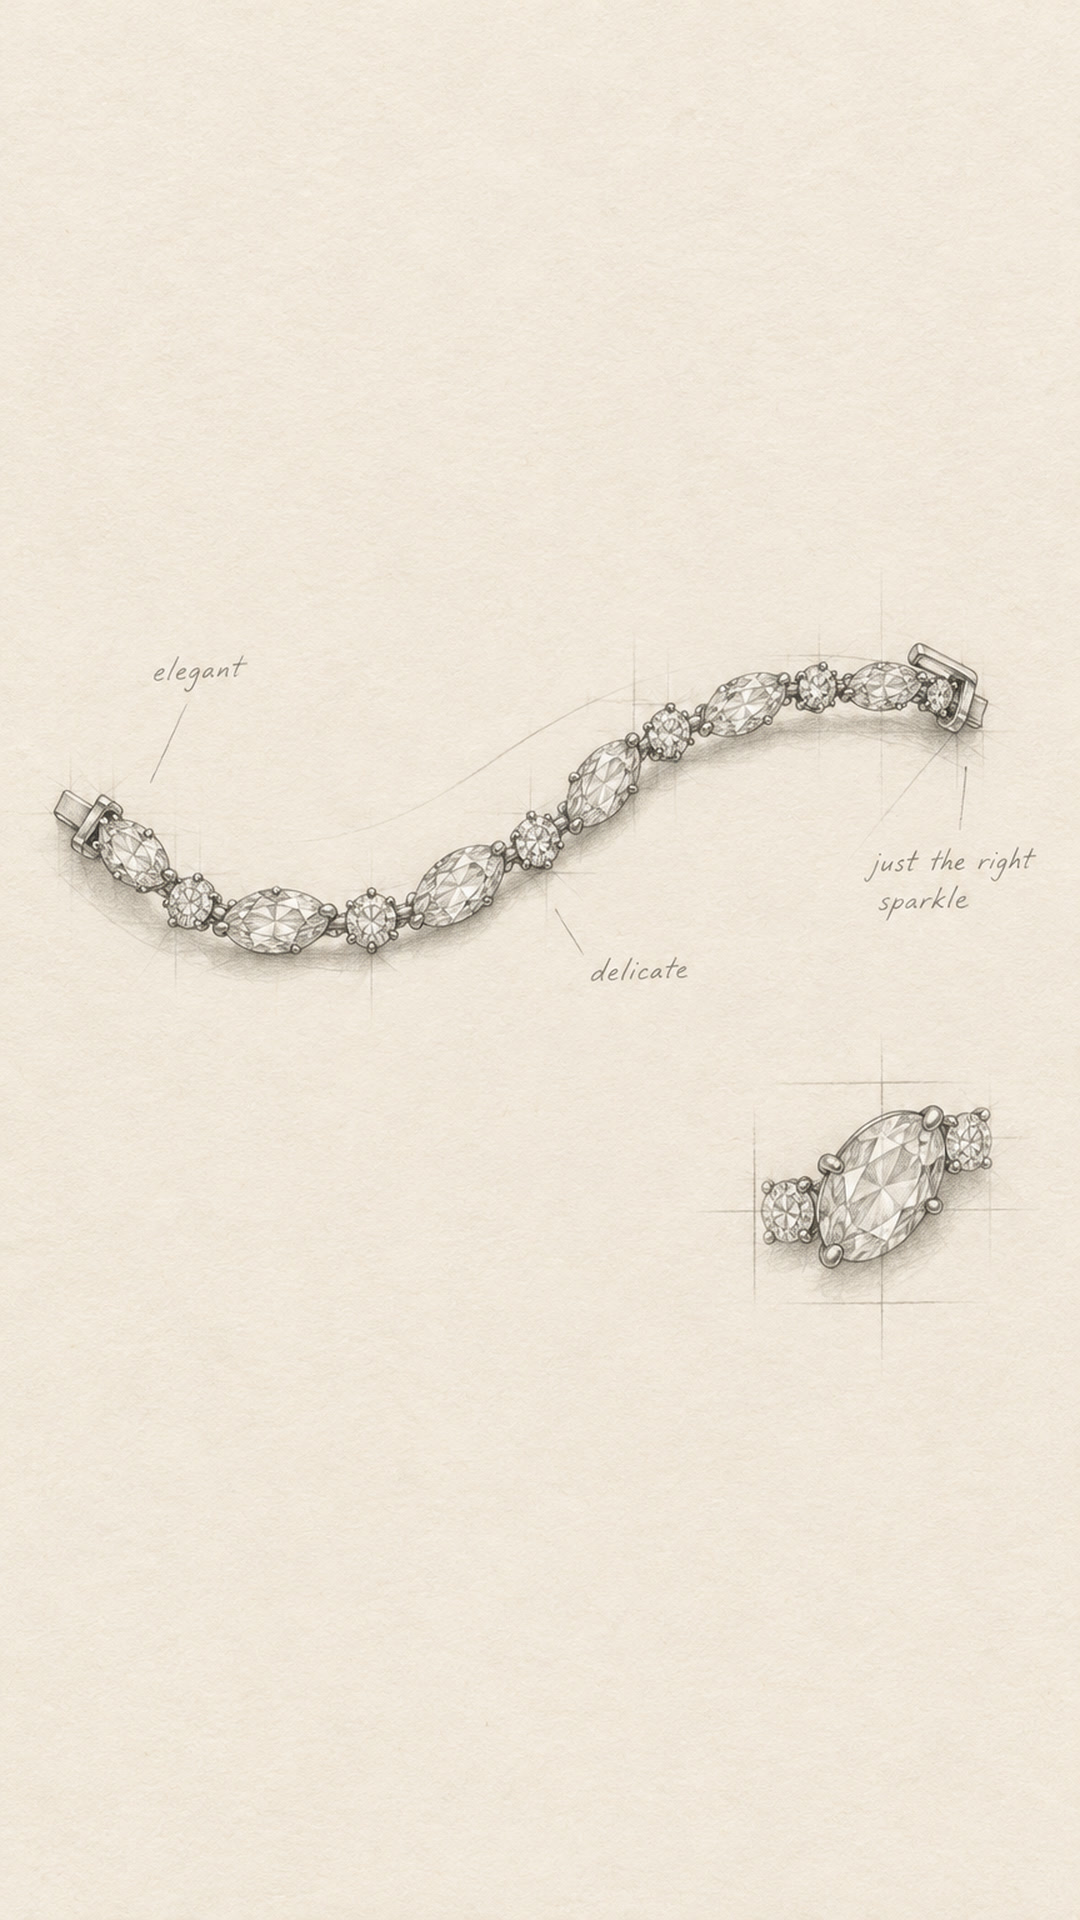
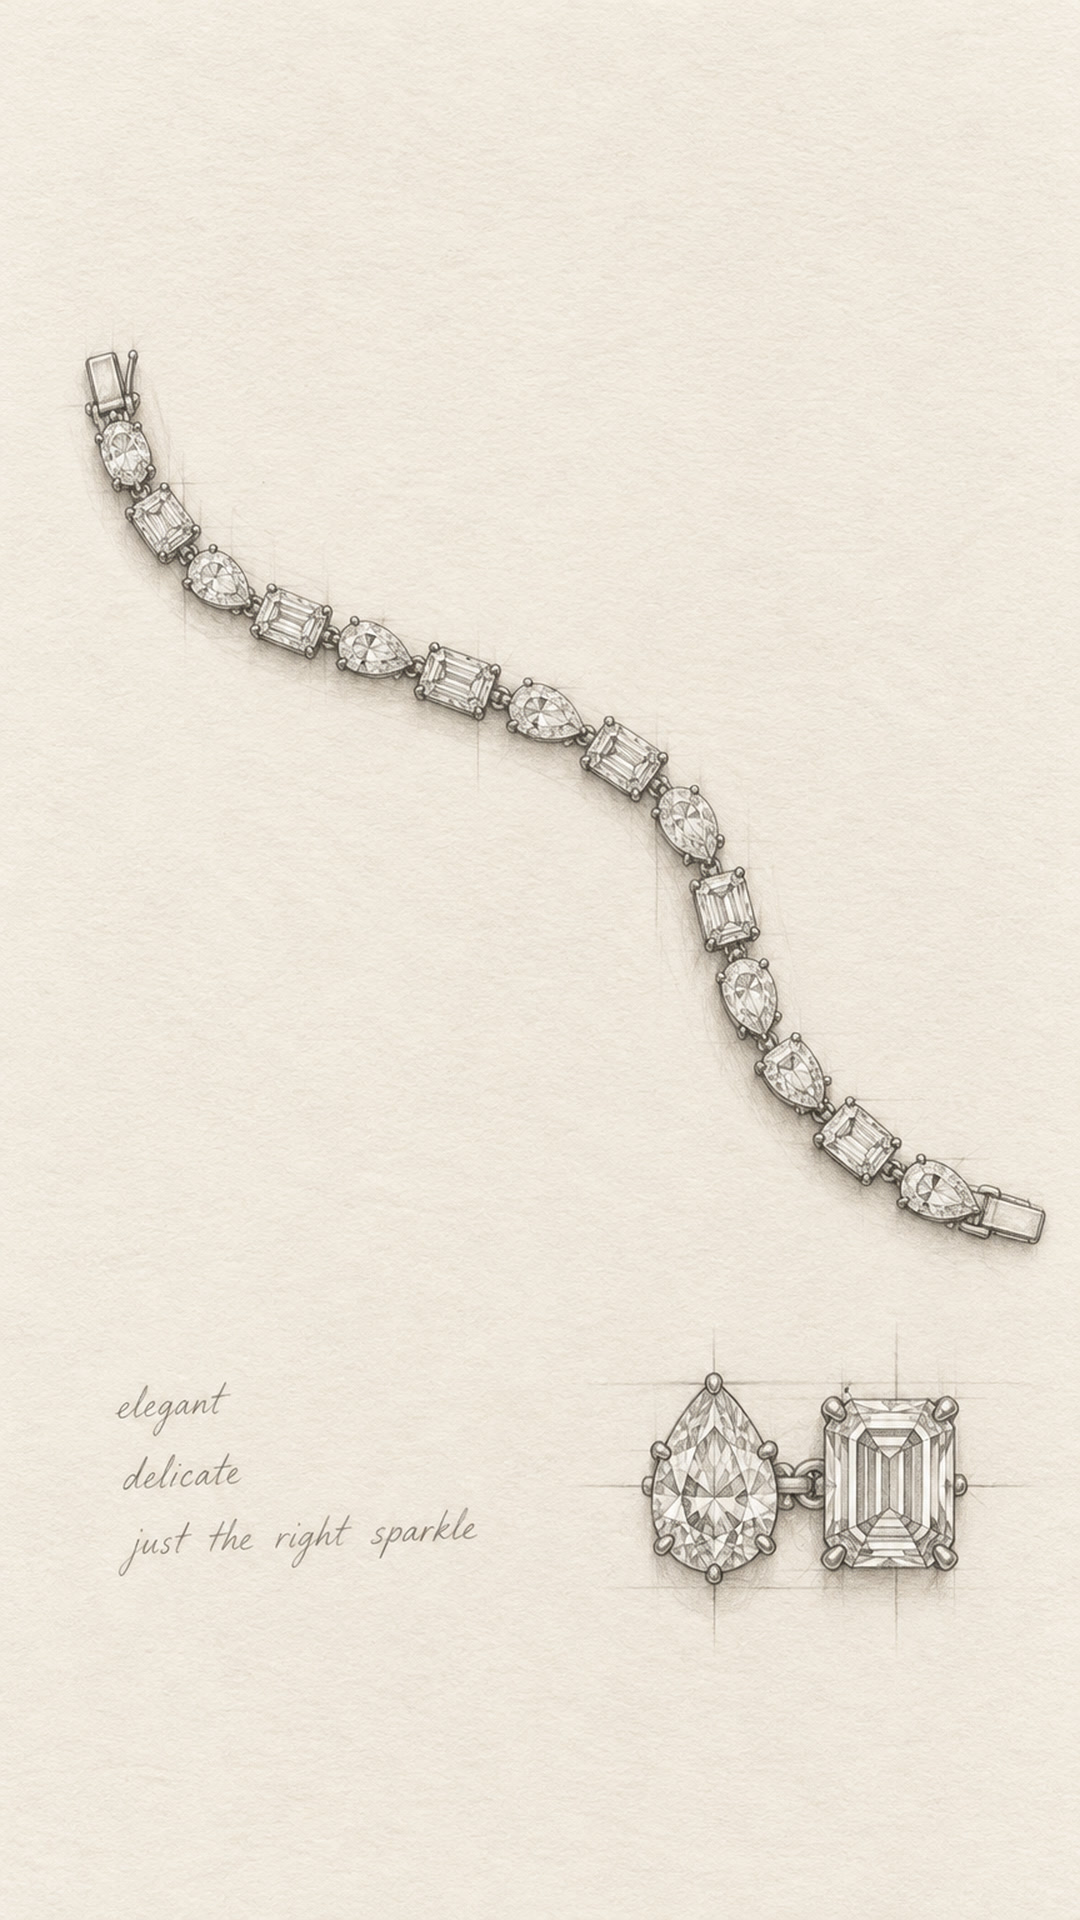
Day 14 bracelet: real bracelet footage, sketch redrawn to match, readable captions on b-roll
Claude-Session: https://claude.ai/code/session_01KXUHsgadvkQefrLQBJPzxr

diff --git a/video/interviews/src/Day14.tsx b/video/interviews/src/Day14.tsx
@@ -1,7 +1,7 @@
 // "Day 14 the Bracelet": idea to sparkle. Her take (media/p9/day14.mp4, upscaled from 720p) with the long pauses
 // tightened. Her three wishes ("elegant", "delicate", "just the right sparkle") pop up as soft word chips above her
-// head; on "we brought her idea to life" a pencil sketch of the bracelet draws itself full screen, then dissolves
-// into the finished bracelet on "beautiful diamond bracelet"; "the finished piece" cuts to it on the wrist.
+// head; on "we brought her idea to life" a pencil sketch of the bracelet draws itself, then the real bracelet footage
+// (gloved over its certificate, then in hand) carries the making and "the finished piece".
 import React from 'react';
 import {AbsoluteFill, Easing, Img, interpolate, OffthreadVideo, Sequence, spring, staticFile, useCurrentFrame, useVideoConfig} from 'remotion';
 import {Audio} from '@remotion/media';
@@ -9,7 +9,6 @@ import wordsData from './data/day14_words.json';
 import {AFACAD, INSTRUMENT, POPPINS} from './fonts';
 
 const clamp = {extrapolateLeft: 'clamp', extrapolateRight: 'clamp'} as const;
-const ease = Easing.bezier(0.16, 1, 0.3, 1);
 const TERRA = '#E2725B', SAP = '#507D2A', INK = '#2E2A26';
 type Word = {w: string; t: number; e: number};
 const WORDS = wordsData as Word[];
@@ -71,45 +70,51 @@ const Chips: React.FC = () => {
 	);
 };
 
-// the pencil sketch draws itself (soft-edged wipe), holds with a slow push, then dissolves into the photo
-const SketchToPhoto: React.FC<{dur: number; photoAt: number}> = ({dur, photoAt}) => {
+// the pencil sketch draws itself (soft-edged wipe) with a slow push
+const Sketch: React.FC<{dur: number}> = ({dur}) => {
 	const frame = useCurrentFrame();
 	const {fps} = useVideoConfig();
 	const t = frame / fps;
-	const draw = interpolate(t, [0.25, 2.8], [0, 1], {...clamp, easing: Easing.inOut(Easing.quad)});
-	const edge = -10 + draw * 120;   // percent across
-	const photo = interpolate(t, [photoAt - 0.25, photoAt + 0.45], [0, 1], {...clamp, easing: ease});
-	const zs = interpolate(t, [0, photoAt + 0.5], [1.0, 1.08], clamp);
-	const zp = interpolate(t, [photoAt, dur], [1.04, 1.12], clamp);
-	const inA = interpolate(t, [0, 0.25], [0, 1], clamp);
+	const draw = interpolate(t, [0.2, 2.3], [0, 1], {...clamp, easing: Easing.inOut(Easing.quad)});
+	const edge = -10 + draw * 120;
+	const z = interpolate(t, [0, dur], [1.0, 1.06], clamp);
+	const inA = interpolate(t, [0, 0.2], [0, 1], clamp);
+	const outA = interpolate(t, [dur - 0.3, dur], [1, 0], clamp);
 	return (
 		<AbsoluteFill style={{background: '#F3EDE2', opacity: inA}}>
-			<AbsoluteFill style={{scale: zs, transformOrigin: '540px 760px'}}>
+			<AbsoluteFill style={{scale: z, transformOrigin: '540px 760px', opacity: outA}}>
 				<Img src={staticFile('img/bracelet/B_sketch.jpg')} style={{width: 1080, height: 1920,
 					maskImage: `linear-gradient(100deg, black ${edge - 8}%, transparent ${edge + 4}%)`, WebkitMaskImage: `linear-gradient(100deg, black ${edge - 8}%, transparent ${edge + 4}%)`}} />
 			</AbsoluteFill>
-			<AbsoluteFill style={{opacity: photo, scale: zp, transformOrigin: '540px 720px'}}>
-				<Img src={staticFile('img/bracelet/B_photo.jpg')} style={{width: 1080, height: 1920}} />
-			</AbsoluteFill>
-			<div style={{position: 'absolute', left: 0, right: 0, top: 150, textAlign: 'center', fontFamily: AFACAD, fontWeight: 500, fontSize: 30, letterSpacing: '0.34em',
-				color: photo > 0.5 ? '#6F6A64' : '#8B7F70', opacity: inA}}>{photo > 0.5 ? 'THE FINISHED PIECE' : 'HER IDEA, ON PAPER'}</div>
+			<div style={{position: 'absolute', left: 0, right: 0, top: 150, textAlign: 'center', fontFamily: AFACAD, fontWeight: 500, fontSize: 30, letterSpacing: '0.34em', color: '#8B7F70'}}>HER IDEA, ON PAPER</div>
 		</AbsoluteFill>
 	);
 };
 
-const Wrist: React.FC<{dur: number}> = ({dur}) => {
+// the real bracelet footage (upscaled from the phone clips), slowed a touch, with a short label
+type Roll = {at: number; clip: string; from: number; dur: number; label?: string};
+const ROLL: Roll[] = [
+	{at: 21.0, clip: 'g3', from: 15.0, dur: 3.4, label: 'EVERY LITTLE DETAIL'},
+	{at: 24.4, clip: 'g2', from: 1.0, dur: 2.0},
+	{at: 26.4, clip: 'g3', from: 21.0, dur: 2.2},
+	{at: 32.65, clip: 'h1', from: 8.0, dur: 2.4, label: 'THE FINISHED PIECE'},
+	{at: 35.05, clip: 'h3', from: 4.0, dur: 1.9},
+	{at: 36.95, clip: 'h2', from: 20.2, dur: 1.45, label: 'WITH ITS CERTIFICATE'},
+];
+const RATE = 0.85;
+const Clip: React.FC<{r: Roll}> = ({r}) => {
 	const frame = useCurrentFrame();
 	const {fps} = useVideoConfig();
 	const t = frame / fps;
-	const z = interpolate(t, [0, dur], [1.0, 1.1], clamp);
-	const sweep = interpolate(t, [0.3, 1.6], [-400, 1400], clamp);
+	const z = interpolate(t, [0, r.dur], [1.04, 1.1], clamp);
+	const la = interpolate(t, [0.15, 0.45, r.dur - 0.25, r.dur], [0, 1, 1, 0], clamp);
 	return (
-		<AbsoluteFill style={{overflow: 'hidden', background: '#EEE7DD'}}>
-			<AbsoluteFill style={{scale: z, transformOrigin: '600px 560px'}}>
-				<Img src={staticFile('img/bracelet/B_wrist.jpg')} style={{width: 1080, height: 1920}} />
-				<div style={{position: 'absolute', top: 0, bottom: 0, left: sweep, width: 300, rotate: '16deg', mixBlendMode: 'soft-light',
-					background: 'linear-gradient(90deg, rgba(255,255,255,0), rgba(255,255,255,0.6), rgba(255,255,255,0))'}} />
-			</AbsoluteFill>
+		<AbsoluteFill style={{overflow: 'hidden', background: '#000'}}>
+			<OffthreadVideo src={staticFile(`media/p9/${r.clip}.mp4`)} muted trimBefore={Math.round(r.from * fps)} playbackRate={RATE}
+				style={{width: 1080, height: 1920, scale: z, filter: 'contrast(1.06) saturate(0.92) brightness(1.02)'}} />
+			<AbsoluteFill style={{background: 'linear-gradient(rgba(0,0,0,0.35) 0%, rgba(0,0,0,0) 22%)'}} />
+			{r.label ? <div style={{position: 'absolute', left: 0, right: 0, top: 150, textAlign: 'center', fontFamily: AFACAD, fontWeight: 500, fontSize: 30, letterSpacing: '0.34em',
+				color: 'white', opacity: la, textShadow: '0 2px 12px rgba(0,0,0,0.5)'}}>{r.label}</div> : null}
 		</AbsoluteFill>
 	);
 };
@@ -137,7 +142,7 @@ const Captions: React.FC<{light: (t: number) => boolean}> = ({light}) => {
 	return (
 		<div style={{position: 'absolute', left: 70, right: 70, top: 1440, textAlign: 'center', opacity: a, scale: 0.92 + 0.08 * a,
 			fontFamily: POPPINS, fontWeight: 700, fontSize: 62, lineHeight: 1.12, color: onLight ? INK : 'white',
-			textShadow: onLight ? '0 0 24px rgba(255,250,240,0.9)' : '0 3px 0 rgba(0,0,0,0.5), 0 0 22px rgba(0,0,0,0.45)'}}>
+			textShadow: onLight ? '0 0 18px rgba(255,252,246,1), 0 0 34px rgba(255,252,246,0.95), 0 0 6px rgba(255,252,246,1)' : '0 3px 0 rgba(0,0,0,0.5), 0 0 22px rgba(0,0,0,0.45)'}}>
 			{g.map((w, i) => (
 				<span key={i} style={{color: t >= w.t - 0.03 ? (onLight ? SAP : TERRA) : undefined}}>{w.w.replace(/,$/, '')}{i < g.length - 1 ? ' ' : ''}</span>
 			))}
@@ -154,9 +159,9 @@ const EndCard: React.FC = () => {
 	return (
 		<AbsoluteFill style={{opacity: interpolate(frame, [0, 15], [0, 1], clamp), background: '#F3EDE2'}}>
 			<AbsoluteFill style={{scale: z, transformOrigin: '540px 900px'}}>
-				<Img src={staticFile('img/bracelet/B_photo.jpg')} style={{width: 1080, height: 1920, opacity: 0.9}} />
+				<OffthreadVideo src={staticFile('media/p9/h1.mp4')} muted trimBefore={Math.round(5.0 * fps)} playbackRate={0.7} style={{width: 1080, height: 1920}} />
 			</AbsoluteFill>
-			<AbsoluteFill style={{background: 'linear-gradient(rgba(248,244,237,0.92) 0%, rgba(248,244,237,0.55) 34%, rgba(248,244,237,0) 55%)'}} />
+			<AbsoluteFill style={{background: 'linear-gradient(rgba(248,244,237,0.96) 0%, rgba(248,244,237,0.85) 30%, rgba(248,244,237,0) 52%)'}} />
 			<div style={{position: 'absolute', left: 80, right: 80, top: 210, textAlign: 'center', color: INK, opacity: a, translate: `0 ${(1 - a) * 26}px`}}>
 				<div style={{fontFamily: INSTRUMENT, fontSize: 110, lineHeight: 1.0}}>Every piece begins<br />with <i style={{color: TERRA}}>one little idea</i></div>
 			</div>
@@ -170,15 +175,13 @@ const EndCard: React.FC = () => {
 export const Day14Reel: React.FC = () => {
 	const {fps, durationInFrames} = useVideoConfig();
 	const f = (t: number) => Math.round(t * fps);
-	const sk0 = out(18.3), sk1 = out(28.6) - 0.02, photoAt = out(26.3) - sk0;
-	const wr0 = out(32.65), wr1 = out(36.0);
-	const light = (t: number) => (t >= sk0 && t < sk1) || (t >= wr0 && t < wr1);
+	const sk0 = out(18.3), sk1 = out(21.0);
+	const light = (t: number) => (t >= sk0 && t < sk1) || ROLL.some((r) => t >= out(r.at) && t < out(r.at) + r.dur);
 	const sfx: {t: number; f: string; v: number; len?: number}[] = [
 		...CHIPS.map((c) => ({t: out(c.at) - 0.03, f: 'pop', v: 0.16})),
 		{t: sk0 - 0.15, f: 'whoosh', v: 0.16},
-		{t: sk0 + photoAt - 0.9, f: 'riser', v: 0.12, len: 1.2},
-		{t: sk0 + photoAt + 0.05, f: 'glock', v: 0.22},
-		{t: wr0 + 0.3, f: 'tick2', v: 0.18},
+		{t: out(32.65) - 1.0, f: 'riser', v: 0.12, len: 1.2},
+		{t: out(32.65) + 0.05, f: 'glock', v: 0.22},
 		{t: TAKE - 0.1, f: 'whoosh', v: 0.2},
 		{t: TAKE + 0.5, f: 'click', v: 0.35},
 	];
@@ -191,8 +194,10 @@ export const Day14Reel: React.FC = () => {
 				</Sequence>
 			))}
 			<Chips />
-			<Sequence name="sketch to photo" from={f(sk0)} durationInFrames={f(sk1) - f(sk0)}><SketchToPhoto dur={sk1 - sk0} photoAt={photoAt} /></Sequence>
-			<Sequence name="wrist" from={f(wr0)} durationInFrames={f(wr1) - f(wr0)}><Wrist dur={wr1 - wr0} /></Sequence>
+			<Sequence name="sketch" from={f(sk0)} durationInFrames={f(sk1) - f(sk0)}><Sketch dur={sk1 - sk0} /></Sequence>
+			{ROLL.map((r, i) => (
+				<Sequence key={`r${i}`} name={`${r.clip} @${r.at}`} from={f(out(r.at))} durationInFrames={f(out(r.at) + r.dur) - f(out(r.at))}><Clip r={r} /></Sequence>
+			))}
 			<Sequence name="end card" from={f(TAKE)}><EndCard /></Sequence>
 			<Captions light={light} />
 			{sfx.map((h, i) => (
